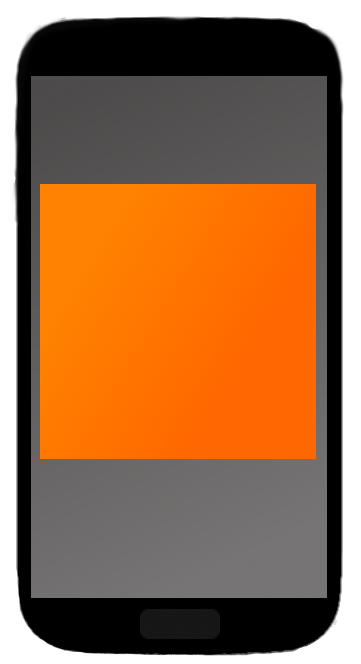
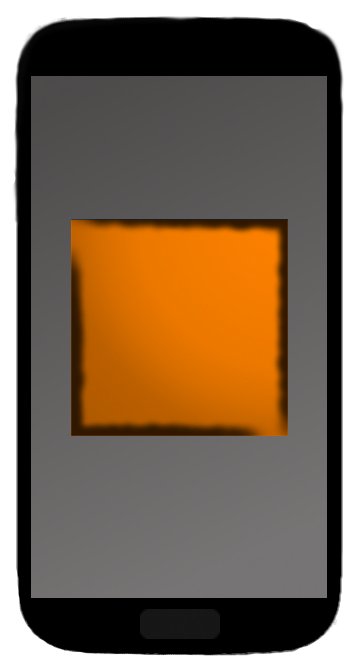
Updated Tutorial

Changed region(s): [[0.0914, 0.2711, 0.8837, 0.6928]]

diff --git a/Client/Assets/Scripts/Tutorial/Tutorial.cs b/Client/Assets/Scripts/Tutorial/Tutorial.cs
@@ -2,13 +2,13 @@
 using System.Collections;
 
 public class Tutorial : MonoBehaviour {
-	private const float xloc = 0.6f;
+	private const float xloc = 0.15f;
 	private const float yloc = 0.3f;
-	private const float height = 0.25f;
-	private const float width= 0.25f;
+	private const float height = 0.5f;
+	private const float width= 0.7f;
 
 	private const float buttonHeight = 0.05f;
-	private const float buttonWidth = 0.15f;
+	private const float buttonWidth = 0.25f;
 
 	public Texture2D RedPhone;
 	public Texture2D YellowPhone;
@@ -20,15 +20,18 @@ public class Tutorial : MonoBehaviour {
 	public Texture2D ArrowRight;
 
 	private double startTime = Time.time;
+	private GUIStyle style;
+	
 
 	void OnGUI() {
-
-
 		Rect windowRect = new Rect(Screen.width*xloc, Screen.height*yloc, Screen.width*width, Screen.height*height);
-		windowRect = GUI.Window(0, windowRect, DoMyWindow, "Merging");
+		windowRect = GUI.Window(0, windowRect, DoMyWindow, "Mixing");
 	}
+	
 
 	void DoMyWindow(int windowID) {
+		
+		GUI.skin.window.fontSize = (int)(Screen.height * 0.075f* height);
 		int time = (int)timePassed () % 14;
 		if (time < 3) {
 			drawStart ();
@@ -45,14 +48,31 @@ public class Tutorial : MonoBehaviour {
 	void drawButton(){
 		float buttonHeightAbsolute = buttonHeight * Screen.height;
 		float buttonWidthAbsolute = buttonWidth * Screen.width;
-		float buttonx =  Screen.height*height - buttonHeightAbsolute;
+		float buttonx =  Screen.height*height - buttonHeightAbsolute* 1.5f;
 		float buttony = (Screen.width*width - buttonWidthAbsolute) * 0.5f;
 		
 		if (GUI.Button (new Rect (buttony, buttonx, buttonWidthAbsolute, buttonHeightAbsolute), "Close"))
 			Destroy (this);
 	}
 
+	void drawNumber(int number){
+		float x = 0.05f * Screen.width * width; 
+		float y = 0;
+
+		float width1 = 0.2f * Screen.width * width;
+		float height1 = 0.3f * Screen.height*height;
+
+		GUIStyle numberStyle = new GUIStyle ();
+		numberStyle.fontSize = (int)(Screen.height * 0.15f* height);
+		numberStyle.normal.textColor = new Color(255,255,255,0.5f);
+
+		GUI.Label(new Rect(x, y, width1, height1),  number + "", numberStyle);
+		//"<p style ='opacity: 0.5'> " +
+
+	}
+
 	void drawStart(){
+
 		float width1 = 0.35f * Screen.width * width;
 		float width2 = 0.35f * Screen.width * width;
 		
@@ -67,57 +87,70 @@ public class Tutorial : MonoBehaviour {
 		
 		GUI.DrawTexture(new Rect(x1, y1, width1, hight1), RedPhone, ScaleMode.ScaleToFit);
 		GUI.DrawTexture(new Rect(x2, y2, width2, hight1), YellowPhone, ScaleMode.ScaleToFit);
+
+
+		drawNumber(1);
 	}
 
 	void drawSide(){
+
+
 		float width1 = 0.1f * Screen.width * width;
 		float width2 = 0.3f * Screen.width * width;
 		float width3 = 0.3f * Screen.width * width;
 		float width4 = 0.1f * Screen.width * width;
 
-		float hight1 = Screen.height*(height - 2 * buttonHeight);
-		float hight2 = 0.15f * Screen.height*(height - 2 * buttonHeight);
-		float hight3 = 0.15f * Screen.height*(height - 2 * buttonHeight);
-		float hight4 = Screen.height*(height - 2 * buttonHeight);
+		float hight1 = Screen.height*(height - 2.5f * buttonHeight);
+		float hight2 = 0.15f * Screen.height*(height - 2.5f * buttonHeight);
+		float hight3 = 0.15f * Screen.height*(height - 2.5f * buttonHeight);
+		float hight4 = Screen.height*(height - 2.5f * buttonHeight);
 
 		float x1 = 0.1f  * Screen.width * width;
 		float x2 = 0.2f * Screen.width * width;
 		float x3 = 0.5f  * Screen.width * width;
 		float x4 = 0.8f * Screen.width * width;
 		
-		float y1 = 0.15f * Screen.height * height;
+		float y1 = 0.1f * Screen.height * height;
 		float y2 = 0.4f * Screen.height * height;
 
 		float y3 = 0.4f * Screen.height * height;
-		float y4 = 0.15f * Screen.height * height;
+		float y4 = 0.1f * Screen.height * height;
 		
 		GUI.DrawTexture(new Rect(x1, y1, width1, hight1), PhoneSide, ScaleMode.ScaleToFit);
 		GUI.DrawTexture(new Rect(x2, y2, width2, hight2), ArrowRight, ScaleMode.ScaleToFit);
 		GUI.DrawTexture(new Rect(x3, y3, width3, hight3), ArrowLeft, ScaleMode.ScaleToFit);
 		GUI.DrawTexture(new Rect(x4, y4, width4, hight4), PhoneOtherSide, ScaleMode.ScaleToFit);
 
+		drawNumber(2);
+
 	}
 
 
 	void drawBump(){
+
 		float width1 = 0.35f * Screen.width * width;
 		float width2 = 0.35f * Screen.width * width;
 		
-		float hight1 = Screen.height*(height - 2 * buttonHeight);
-		float hight2 = Screen.height*(height - 2 * buttonHeight);
+		float hight1 = Screen.height*(height - 2.5f * buttonHeight);
+		float hight2 = Screen.height*(height - 2.5f * buttonHeight);
 		
-		float x1 = 0.3f  * Screen.width * width;
-		float x2 = 0.4f * Screen.width * width;
+		float x1 = 0.27f  * Screen.width * width;
+		float x2 = 0.37f * Screen.width * width;
 		
-		float y1 = 0.15f * Screen.height * height;
-		float y2 = 0.15f * Screen.height * height;
+		float y1 = 0.1f * Screen.height * height;
+		float y2 = 0.1f * Screen.height * height;
 		
 		GUI.DrawTexture(new Rect(x1, y1, width1, hight1), PhoneSide, ScaleMode.ScaleToFit);
 		GUI.DrawTexture(new Rect(x2, y2, width2, hight1), PhoneOtherSide, ScaleMode.ScaleToFit);
 
+		
+		drawNumber(3);
+
 	}
 
 	void drawFinish(){
+
+
 		float width1 = 0.35f * Screen.width * width;
 		float width2 = 0.35f * Screen.width * width;
 		
@@ -132,6 +165,8 @@ public class Tutorial : MonoBehaviour {
 		
 		GUI.DrawTexture(new Rect(x1, y1, width1, hight1), OrangePhone, ScaleMode.ScaleToFit);
 		GUI.DrawTexture(new Rect(x2, y2, width2, hight1), OrangePhone, ScaleMode.ScaleToFit);
+
+		drawNumber(4);
 	}
 	
 	double timePassed(){
